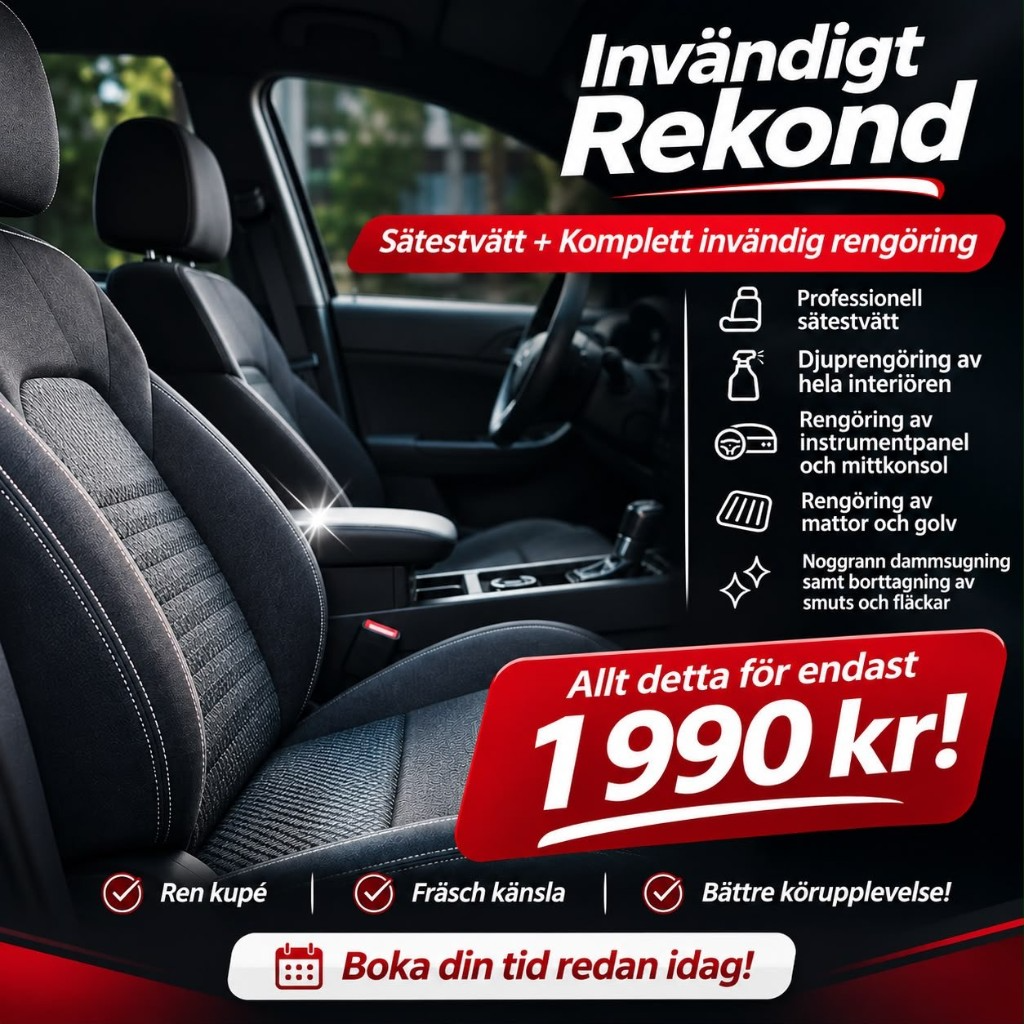
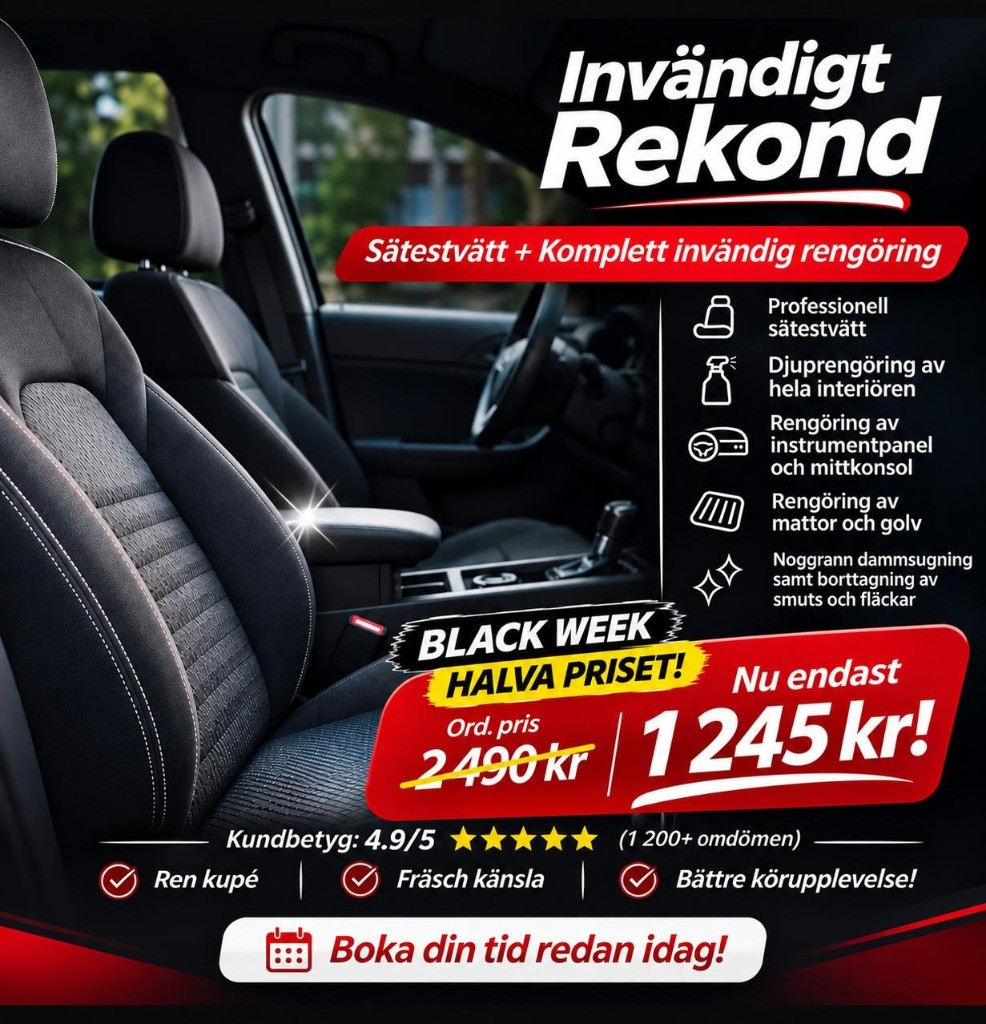
Replace interior offer with Black Week 50% deal
Swap the 1 990 kr invändig rekond campaign for the Black Week poster
and pricing at 1 245 kr (ord. 2 490 kr) with matching offer copy.

diff --git a/src/data/site.ts b/src/data/site.ts
@@ -383,30 +383,31 @@ export const CAMPAIGNS: OfferCampaign[] = [
     originalPrice: "5 900 kr",
   },
   {
-    id: "invandig-rekond",
+    id: "invandig-rekond-black-week",
     image: "/kampanjer/invandig-rekond.png",
     imageAlt:
-      "Heltäckande invändig rekond. Kampanjpris 1 990 kr. Sätestvätt och komplett invändig rengöring.",
-    imageWidth: 1024,
+      "Black Week invändig rekond. 1 245 kr, ordinarie 2 490 kr. Sätestvätt och komplett invändig rengöring.",
+    imageWidth: 986,
     imageHeight: 1024,
     imagePosition: "center top",
-    bookingName: "Invändig rekond",
-    kicker: "INVÄNDIG REKOND",
-    headline: "1 990 KR",
-    tagline: "Sätestvätt + komplett invändig rengöring",
+    bookingName: "Invändig rekond – Black Week",
+    kicker: "BLACK WEEK",
+    headline: "INVÄNDIG REKOND",
+    tagline: "Sätestvätt + komplett invändig rengöring – 50% rabatt",
     description:
-      "Är bilsätena smutsiga eller fläckiga? Låt oss ge bilen en ren, fräsch och välvårdad känsla igen!",
+      "Ge din bil en nybilskänsla med vår professionella invändiga rekond!",
     includes: [
       "Professionell sätestvätt",
-      "Djuprengöring av hela bilens interiör",
-      "Rengöring av mattor och golv",
+      "Djuprengöring av hela interiören",
       "Rengöring av instrumentpanel och mittkonsol",
+      "Rengöring av mattor och golv",
       "Noggrann dammsugning",
-      "Behandling av smuts och fläckar",
+      "Borttagning av smuts och fläckar",
     ],
-    highlight: "Allt detta för endast 1 990 kr!",
+    highlight: "Halva priset – Black Week endast 1 245 kr!",
     footnote:
-      "Noggrant och professionellt utfört arbete. Ren bil – fräsch känsla – bättre körupplevelse! Boka din tid redan idag.",
-    price: "1 990 kr",
+      "Begränsat Black Week-erbjudande. Ren kupé, fräsch känsla och bättre körupplevelse. Boka din tid redan idag och spara 1 245 kr!",
+    price: "1 245 kr",
+    originalPrice: "2 490 kr",
   },
 ];

diff --git a/src/components/OfferPopup.tsx b/src/components/OfferPopup.tsx
@@ -26,7 +26,7 @@ import {
   SUPABASE_NOT_CONFIGURED,
 } from "@/lib/submit-booking";
 
-const DISMISS_KEY = "glansig-offer-popup-v7";
+const DISMISS_KEY = "glansig-offer-popup-v8";
 const CAR_TYPES = ["Mellan", "SUV"] as const;
 const STAR_PATH =
   "M12 17.27 18.18 21l-1.64-7.03L22 9.24l-7.19-.61L12 2 9.19 8.63 2 9.24l5.46 4.73L5.82 21z";
